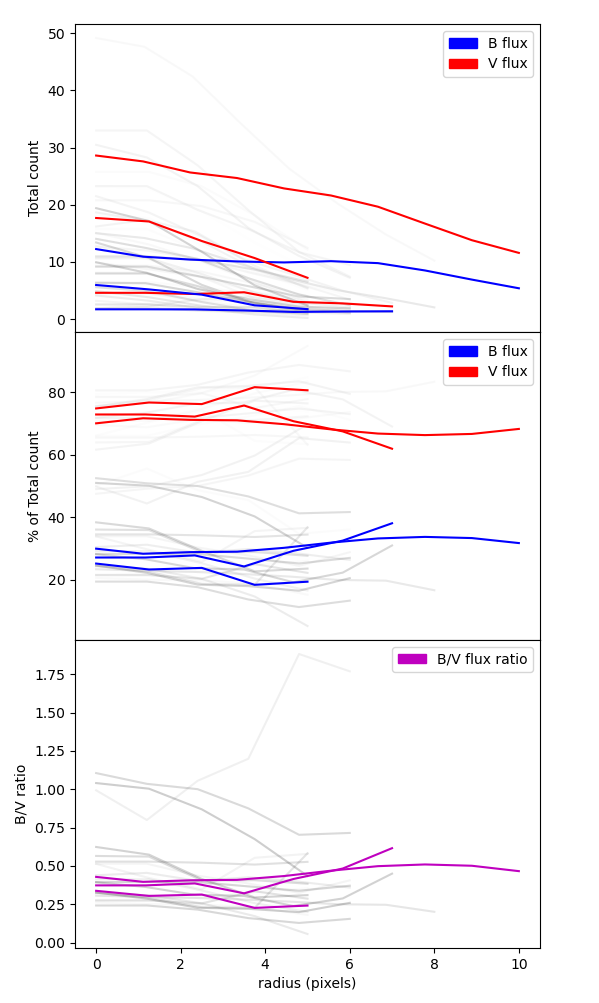
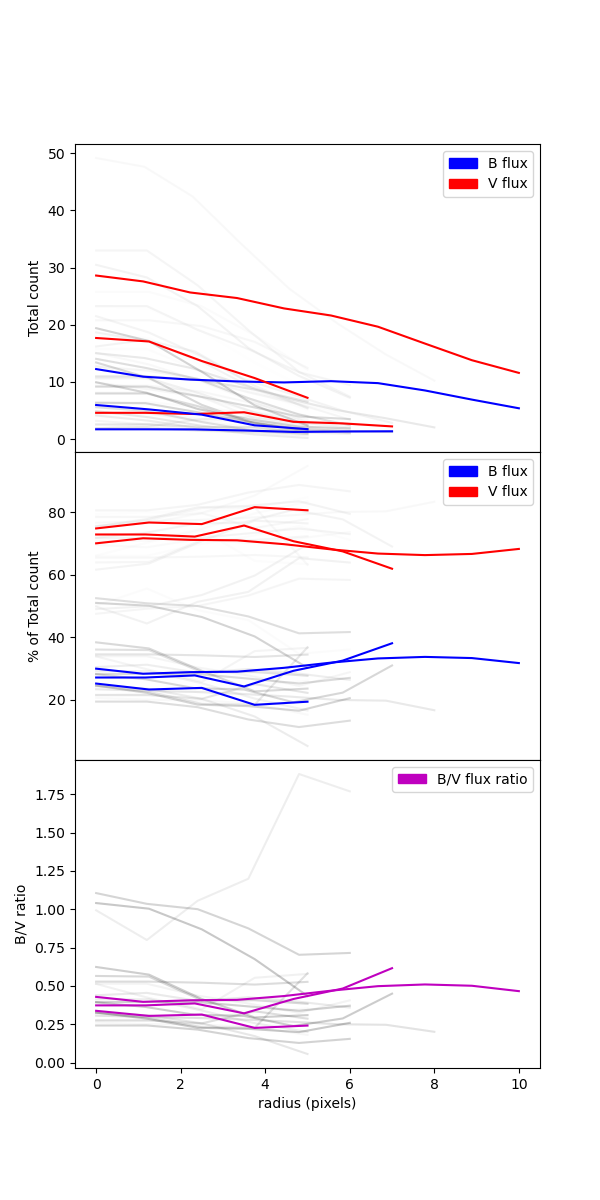
stuff

diff --git a/AutoUpdate.py b/AutoUpdate.py
@@ -103,7 +103,7 @@ def plotter():
             ax2.plot(x,'b_per',data=source,color=(0.3,0.3,0.3),alpha=0.01*shade,zorder=0)
             ax2.plot(x,'r_per',data=source,color=(0.8,0.8,0.8),alpha=0.01*shade,zorder=0)
 
-            ax3.plot(x,'ratio',data=source,color=(0.2,0.2,0.2),alpha=0.01*shade,zorder=0)
+            ax3.plot(x,'ratio',data=source,color=(0.1,0.1,0.1),alpha=0.01*shade,zorder=0)
 
     ax3.set_xlabel('radius (pixels)')
     ax1.set_ylabel('Total count')
